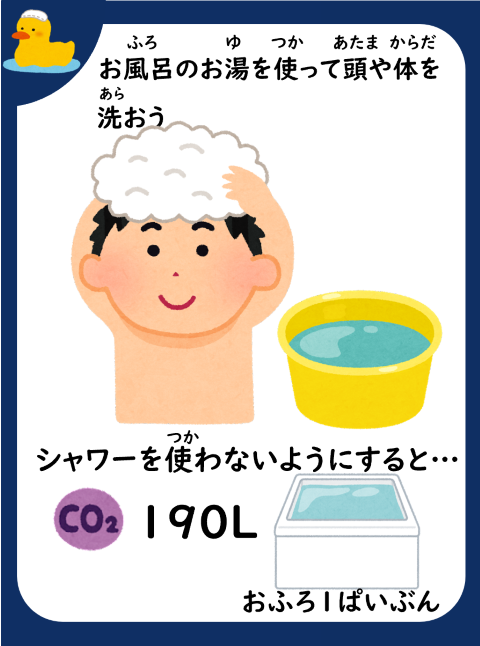
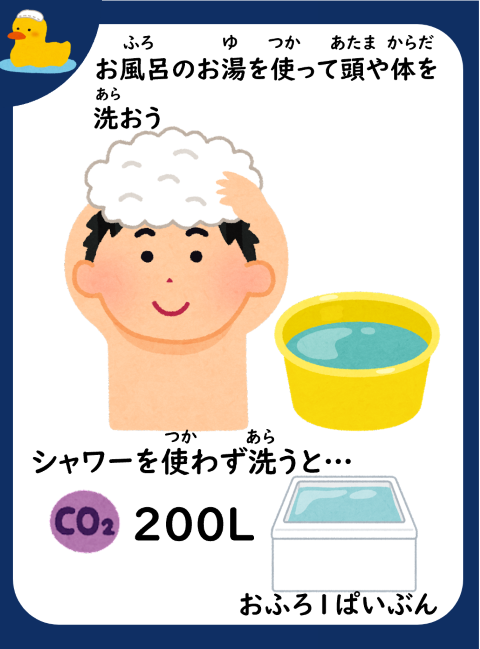
Fix data-count

diff --git a/counter/templates/count.html b/counter/templates/count.html
@@ -45,7 +45,7 @@
     <div id="imageContainer">
         <img src="{% static 'img/お風呂ー1 (小).png' %}" data-count="40">
         <img src="{% static 'img/お風呂ー2 (小).png' %}" data-count="120">
-        <img src="{% static 'img/お風呂ー3 (小).png' %}" data-count="190">
+        <img src="{% static 'img/お風呂ー3 (小).png' %}" data-count="200">
         <img src="{% static 'img/お風呂ー4 (小).png' %}" data-count="30">
         <img src="{% static 'img/スイッチー1 (小).png' %}" data-count="10">
         <img src="{% static 'img/スイッチー2 (小).png' %}" data-count="30">
@@ -53,7 +53,7 @@
         <img src="{% static 'img/スイッチー4 (小).png' %}" data-count="60">
         <img src="{% static 'img/学校ー1 (小).png' %}" data-count="5">
         <img src="{% static 'img/学校ー2 (小).png' %}" data-count="5">
-        <img src="{% static 'img/学校ー3 (小).png' %}" data-count="15">
+        <img src="{% static 'img/学校ー3 (小).png' %}" data-count="10">
         <img src="{% static 'img/学校ー4 (小).png' %}" data-count="70">
         <img src="{% static 'img/蛇口ー1 (小).png' %}" data-count="1">
         <img src="{% static 'img/蛇口ー2 (小).png' %}" data-count="1">
